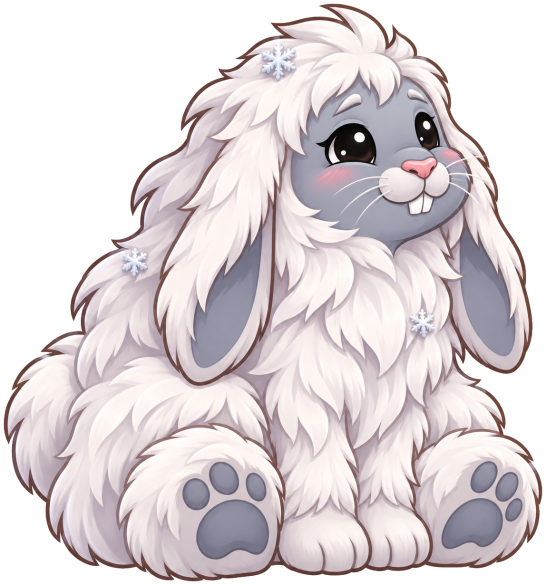
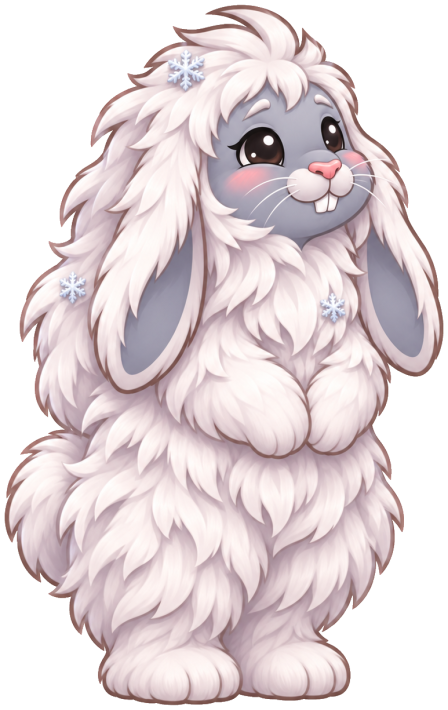
Yetiti : son premier stade debout, comme Paille
Le dessin de base de Yetiti était encore le premier, assis les pattes
arrière relevées, pose refusée par le propriétaire le 6 novembre. Le
même Yetiti repeint debout (v4 A, déjà utilisé pour son évolution)
remplace l'ancien. Même surface à l'écran qu'avant (60,8 de large,
plus haut puisqu'il est debout) ; toque et bavoir de cuisine replacés
et vérifiés en capture.

diff --git a/src/config/species.ts b/src/config/species.ts
@@ -87,7 +87,7 @@ const REGISTRY = [
   // Christmas update (owner, 5 November 2026): Gigi-rarafe (concept B « Girafe coucher de soleil »), then the three Christmas
   // rabbits (Yetiti A, Rennes A, Susucre B): `event: 'christmas'` rabbits are born only while the Christmas event is on, and stay.
   {id: 'gigi-rarafe', name: 'Gigi-rarafe', description: 'Un lapin bélier girafe au très long cou, aux taches orange feu et aux petites cornes duveteuses.', types: ['paille', 'feu'], rarity: 'epic', acquisition: [{kind: 'recipe', knowledgePrice: 450, requiredTypes: ['paille', 'feu'], minAffection: 6, probability: 10}], art: {kind: 'static-sprite', file: 'assets/rabbits/gigi-rarafe/gigi-rarafe-v1.png', texture: 'rabbit-gigi-rarafe-original-v1', width: 296, height: 611, worldWidth: 40.1, groundY: 12, preloadOrder: 38, facing: 'left'}, progression: {unlockLevel: 11}},
-  {id: 'yetiti', name: 'Yetiti', event: 'christmas', description: 'Un très grand lapin yéti au pelage blanc dense, au visage et aux coussinets bleu ardoise.', types: ['neige', 'paille'], rarity: 'epic', acquisition: [{kind: 'recipe', knowledgePrice: 450, requiredTypes: ['neige', 'paille'], minAffection: 6, probability: 10}], art: {kind: 'static-sprite', file: 'assets/rabbits/yetiti/yetiti-v1.png', texture: 'rabbit-yetiti-original-v1', width: 546, height: 585, worldWidth: 74, groundY: 12, preloadOrder: 39}, progression: {unlockLevel: 11}},
+  {id: 'yetiti', name: 'Yetiti', event: 'christmas', description: 'Un très grand lapin yéti au pelage blanc dense, au visage et aux coussinets bleu ardoise.', types: ['neige', 'paille'], rarity: 'epic', acquisition: [{kind: 'recipe', knowledgePrice: 450, requiredTypes: ['neige', 'paille'], minAffection: 6, probability: 10}], art: {kind: 'static-sprite', file: 'assets/rabbits/yetiti/yetiti-v1.png', texture: 'rabbit-yetiti-original-v1', width: 448, height: 710, worldWidth: 60.8, groundY: 12, preloadOrder: 39}, progression: {unlockLevel: 11}},
   {id: 'rennes', name: 'Rennes', event: 'christmas', description: 'Un lapin renne aux grands bois, au nez rouge, avec son harnais à grelots pour tirer le traîneau.', types: ['vol', 'metal'], rarity: 'epic', acquisition: [{kind: 'recipe', knowledgePrice: 450, requiredTypes: ['vol', 'metal'], minAffection: 6, probability: 10}], art: {kind: 'static-sprite', file: 'assets/rabbits/rennes/rennes-v1.png', texture: 'rabbit-rennes-original-v1', width: 354, height: 522, worldWidth: 48, groundY: 12, preloadOrder: 40}, progression: {unlockLevel: 11}},
   {id: 'susucre', name: 'Susucre', event: 'christmas', description: 'Un lapin sucre d’orge rayé rouge et vert menthe, avec un nœud doré et une oreille en crosse.', types: ['paille', 'feu'], rarity: 'epic', acquisition: [{kind: 'recipe', knowledgePrice: 450, requiredTypes: ['paille', 'feu'], minAffection: 6, probability: 10}], art: {kind: 'static-sprite', file: 'assets/rabbits/susucre/susucre-v1.png', texture: 'rabbit-susucre-original-v1', width: 369, height: 487, worldWidth: 50, groundY: 12, preloadOrder: 41}, progression: {unlockLevel: 11}},
   // Christmas update, second wave: Lapin de Sulli (concept B), and the Christmas epics Pain d'épice and Flocon de cristal (born only during the event).

diff --git a/tests/rabbit-art-fixtures.ts b/tests/rabbit-art-fixtures.ts
@@ -75,7 +75,7 @@ export const NEW_SPECIALS: readonly SpecialSheet[] = [
[1 lines of base64/hex data omitted]
   // Christmas update (5 November 2026), painted concepts chosen by the owner. Yetiti, Rennes and Susucre are born only during Christmas.
[5 lines of base64/hex data omitted]
   // Christmas update (6 November 2026): Lapin de Sulli (concept B), and two more Christmas Epics born only during the event.

diff --git a/src/config/cuisineAnchors.ts b/src/config/cuisineAnchors.ts
@@ -57,7 +57,7 @@ export const CUISINE_ANCHORS: Partial<Record<SpeciesId, CuisineAnchors>> = {
   // The Christmas update's rabbits (5 November 2026), read on 10 % grids of their v1 sprites, checked on captures (6 November 2026).
   vantablack: a([.68, .24, .34, 6], [.72, .5, .3], [.73, .37, .3]),
   'gigi-rarafe': a([.42, .09, .3, -4], [.42, .33, .28], [.42, .17, .28]),
-  yetiti: a([.66, .12, .36, 6], [.7, .42, .3], [.7, .27, .3]),
+  yetiti: a([.62, .08, .36, 4], [.68, .34, .28], [.66, .2, .26]),
   rennes: a([.64, .27, .34, 6], [.7, .52, .3], [.71, .39, .28]),
   susucre: a([.72, .3, .34, 6], [.78, .56, .3], [.79, .43, .28]),
   arkoko: a([.68, .2, .38, 6], [.76, .54, .32], [.79, .4, .3]),
